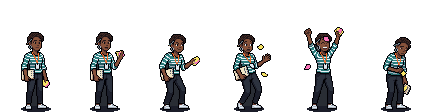
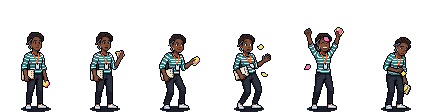
fix(pushback): the background between the legs cleared, the shadow kept
The key floods from the border, so the pocket the legs and the shadow
close off stayed in. holes.mjs clears it on the cut sheet, on every
person sheet but Kim's, whose trousers are drawn in the background's
shades. Bo's taunt cell loses a stray blue stroke; the glossary icon's
cut is in the skill.

diff --git a/.claude/skills/pixel-sprite/SKILL.md b/.claude/skills/pixel-sprite/SKILL.md
@@ -46,6 +46,14 @@ rm src/assets/lab/pushback/sheets/logo.json
 # the measure): cut with one cell more, then drop the first cell from the
 # PNG and the JSON
 
+# The glossary's icon: the rolled printout from the prop sheet, cropped
+# out of the original (sharp, extract left 355, top 540, 380 by 400) to
+# `originals/glossary-sheet.png`, then one centred cell; trimmed to its
+# art (29 by 30) like the logo, and the JSON dropped
+node .claude/skills/pixel-sprite/scripts/sheet.mjs \
+  src/assets/lab/pushback/sources/originals/glossary-sheet.png glossary \
+  --cells 1 --cell 40x40 --anchor centre --specks 0
+
 # The mic-drop burst: three cells (the burst, its big beat, popped), the
 # letters inside key with it
 node .claude/skills/pixel-sprite/scripts/sheet.mjs \
@@ -88,6 +96,24 @@ The console line says the figure heights and widths per cell and `CLIPPED`
 when a figure does not fit its cell. `pnpm test` runs `sheets.test.ts`,
 which checks every sheet's cells, the idle height (70 to 85) and the
 palette.
+
+### Holes
+
+The key floods from the border, so the background between the legs,
+closed off by the legs and the shadow under the feet, stays in. Clear
+it on the cut sheet, after the patches:
+
+```sh
+node .claude/skills/pixel-sprite/scripts/holes.mjs <id> [<id> ...]
+```
+
+It clears every group of background-coloured pixels (`--tolerance` 12)
+of at least `--min` (10) pixels that runs from above the last `--feet`
+(12) rows of the cell down into them. The shadow has a darker colour of
+its own and dark shoes lie inside the feet rows, so both stay. Every
+person sheet has had it except Kim (`designer-kim`), whose trousers are
+drawn in the background's own shades and whose legs touch; check the
+sheet at 4x on a bright colour after each run.
 
 ### Features
 
